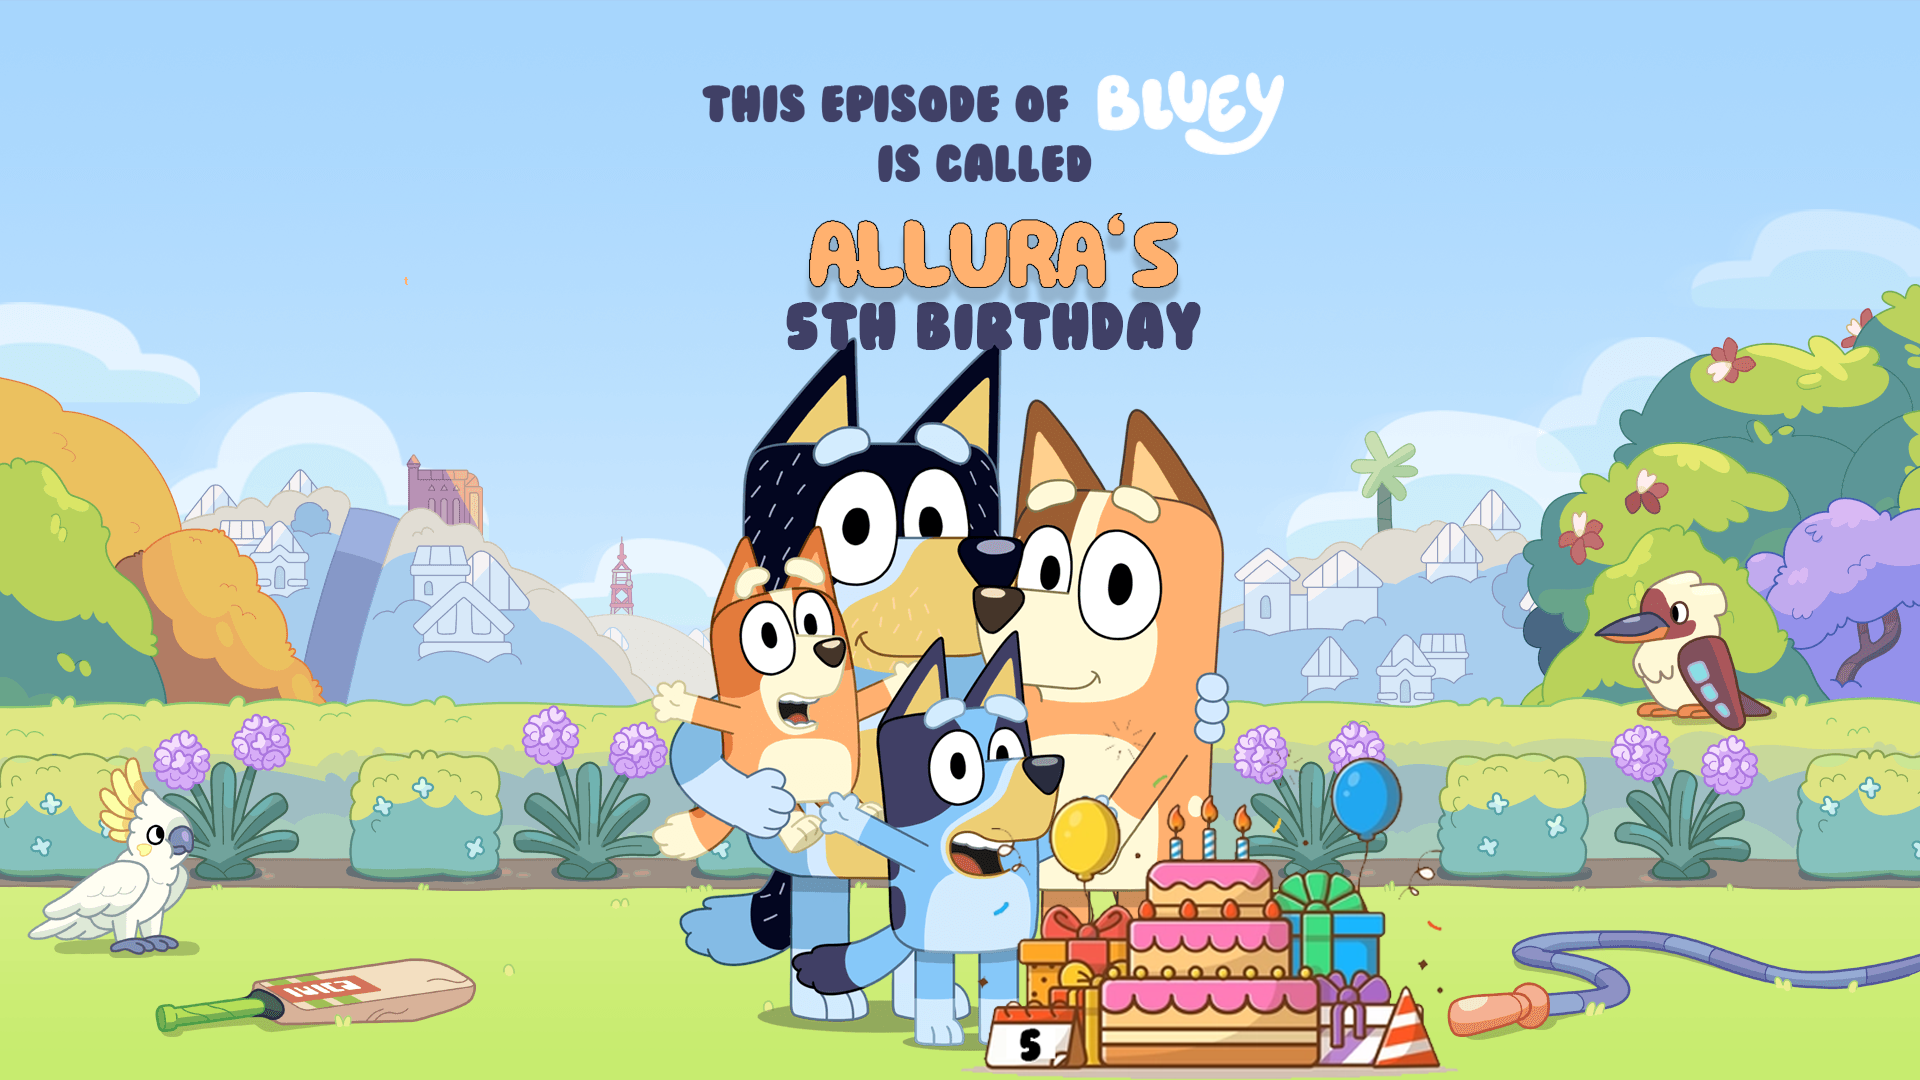
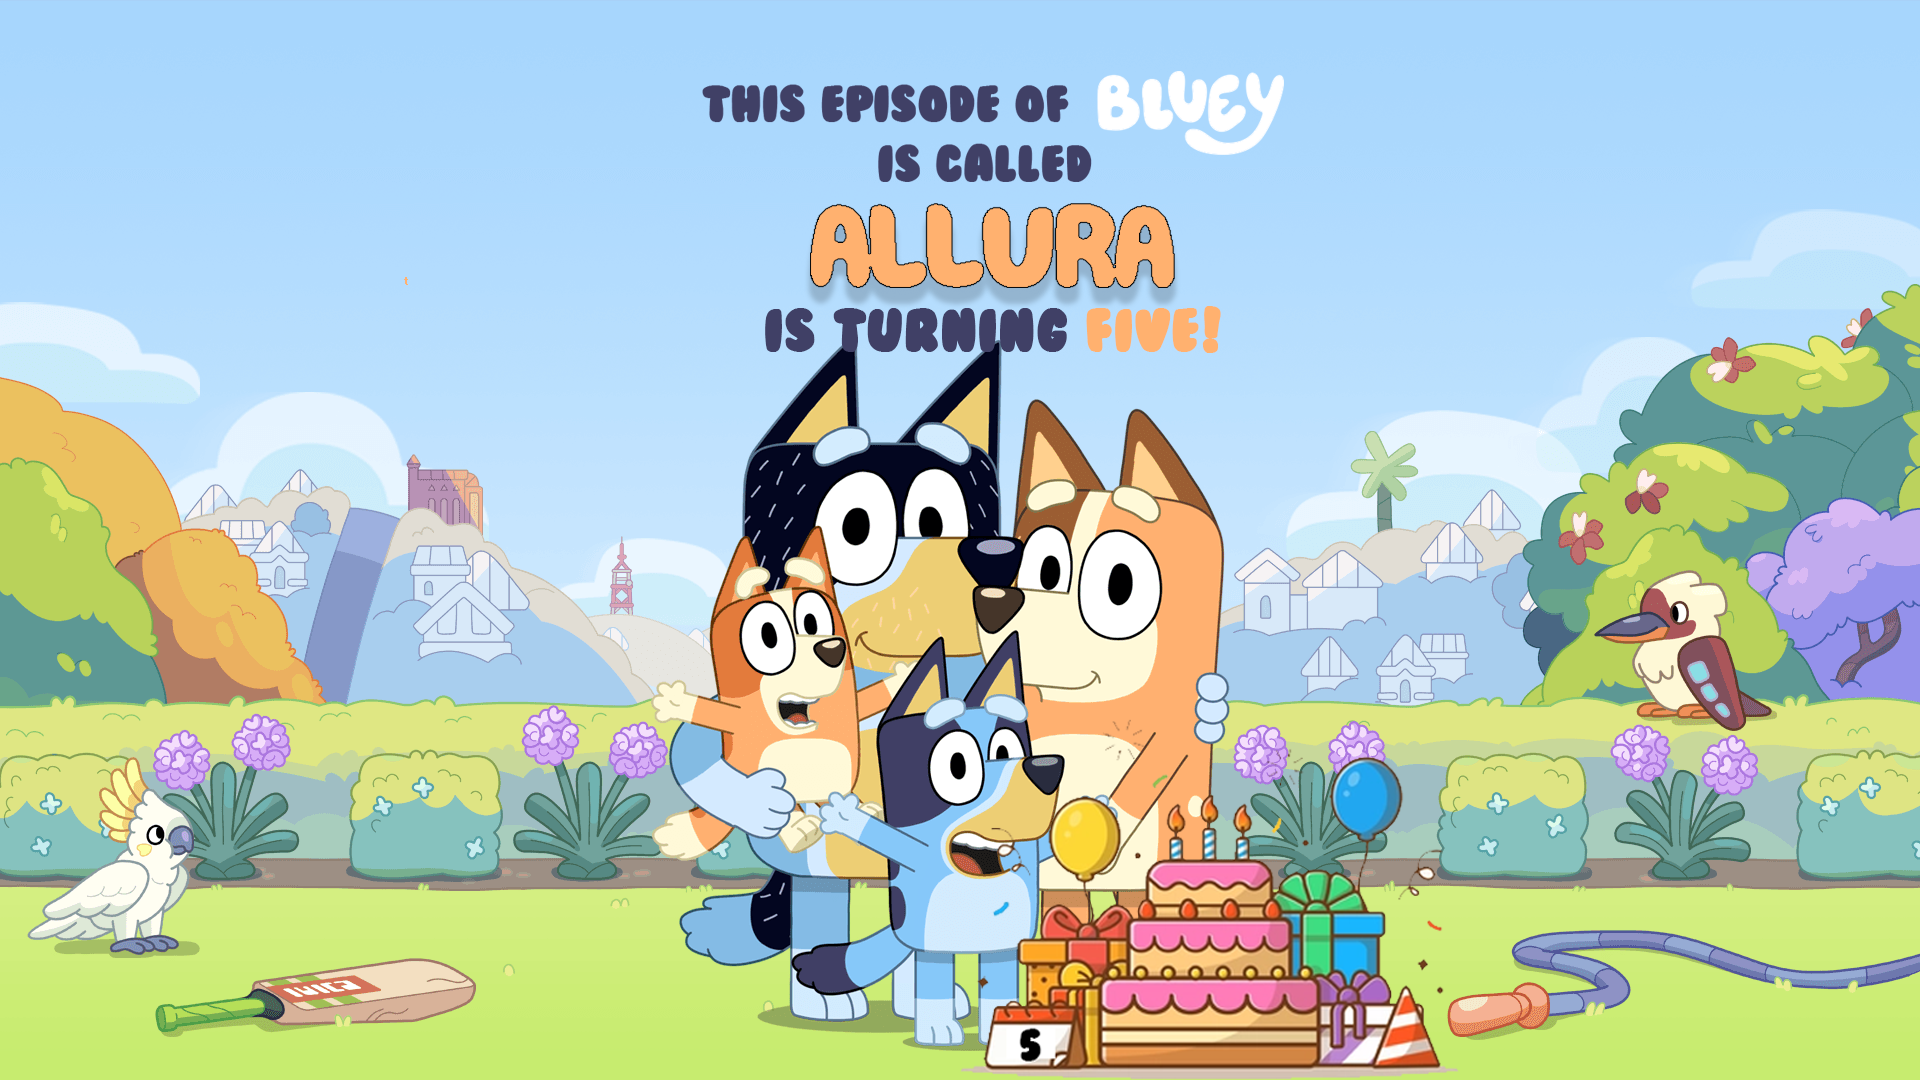
Update

Changed region(s): [[0.375, 0.1833, 0.6562, 0.3361]]

diff --git a/_includes/call-to-action.html b/_includes/call-to-action.html
@@ -3,15 +3,16 @@
         <div class="row">
             <div class="col-lg-8 col-lg-offset-2 text-center">
                 <h2 class="section-heading">Saturday, November 5, 2022</h2>
-                <hr class="light">
                 <h2 class="section-heading">11:00 AM - 2:00 PM</h2>
+                <a href="#contact" class="btn btn-default btn-xl wow tada">RSVP</a>
                 <hr class="light">
                 <h2 class="section-heading">Neighborhood Park</h2>
-                <hr class="light">
-                <p class="text-faded">Note: Their are no restrooms in the park,  but you can use ours at our home, a 3 minute walk away </p>
-                <a href="https://maps.app.goo.gl/VApA7UD2BfKkBrXcA" target="_blank" class="btn btn-default btn-xl">Map to Park <i class="fa  fa-map-marker text-primary"></i></a>
-                <a href="#contact" class="btn btn-default btn-xl wow tada">RSVP</a>
+                <p>10015 E Emberwood Dr</p>
+                <p><a href="https://maps.app.goo.gl/VApA7UD2BfKkBrXcA" target="_blank" class="btn btn-default btn-xl">Map to Park <i class="fa  fa-map-marker text-primary"></i></a></p>
+                <p class="text-faded"><u>Note:</u> There are no restrooms in the park,  but you can use ours at our home, a 3 minute walk away </p>
                 <a href="https://maps.app.goo.gl/pSCp9MruXaHwbQqs6" target="_blank" class="btn btn-default btn-xl">Restrooms <i class="fa  fa-map-marker text-primary"></i></a>
+                <hr class="light">
+                <p class="text-faded">No gift required! But should you want to give something to Allura, please consider giving $5 (a "Fiver Party") that she can put toward her Disney trip!</p>
             </div>
         </div>
     </div>

diff --git a/_includes/header.html b/_includes/header.html
@@ -2,7 +2,7 @@
     <div class="header-content">
         
         <div class="header-content-inner">
-            <img src="https://vutang50.github.io/pages-allura-bday-2022/img/Allura_5th_Invitation_background_web.png" style="width: 0; height: 0;  position: absolute; left: -10000px;"/>
+            <img src="https://vutang50.github.io/pages-allura-bday-2022/img/Allura_5th_Invitation_background_web.png?ver=1" style="width: 0; height: 0;  position: absolute; left: -10000px;"/>
             <p>&nbsp;</p>
             <p>&nbsp;</p>
             <p>&nbsp;</p>

diff --git a/_includes/contact.html b/_includes/contact.html
@@ -4,7 +4,7 @@
             <div class="col-lg-8 col-lg-offset-2 text-center">
                 <h2 class="section-heading">Let's Get In Touch!</h2>
                 <hr class="primary">
-                <p>RSVP by emailing/texting Linda (Allura's mum).  Parents and siblings welcome. </p>
+                <p>RSVP by emailing/texting Linda (Allura's mum).  Siblings welcome. </p>
             </div>
         <div class="col-lg-4 col-lg-offset-2 text-center">
             <a href="tel:{{ site.phone }}">

diff --git a/_includes/nav.html b/_includes/nav.html
@@ -8,7 +8,7 @@
                 <span class="icon-bar"></span>
                 <span class="icon-bar"></span>
             </button>
-            <a class="navbar-brand page-scroll" href="#page-top">Allura's 5th Birthday</a>
+            <a class="navbar-brand page-scroll" href="#page-top">Allura is turning five!</a>
         </div>
 
         <!-- Collect the nav links, forms, and other content for toggling -->

diff --git a/_includes/head.html b/_includes/head.html
@@ -6,7 +6,7 @@
     <meta name="description" content="">
     <meta name="author" content="">
     <meta property=’og:image’ content="../img/header.webp"/>
-    <title>Allura's 5th Birthday Info</title>
+    <title>Allura is turning five! - synopsis</title>
 
     <!-- Bootstrap Core CSS -->
     <link rel="stylesheet" href="css/bootstrap.min.css" type="text/css">

diff --git a/_sass/_base.scss b/_sass/_base.scss
@@ -155,7 +155,7 @@ header {
     min-height: auto;
     @include background-cover;
     background-position: center;
-    background-image: url('../img/Allura_5th_Invitation_background_web.png');
+    background-image: url('../img/Allura_5th_Invitation_background_web.png?ver=1');
     text-align: center;
     color: white;
     .header-content {
